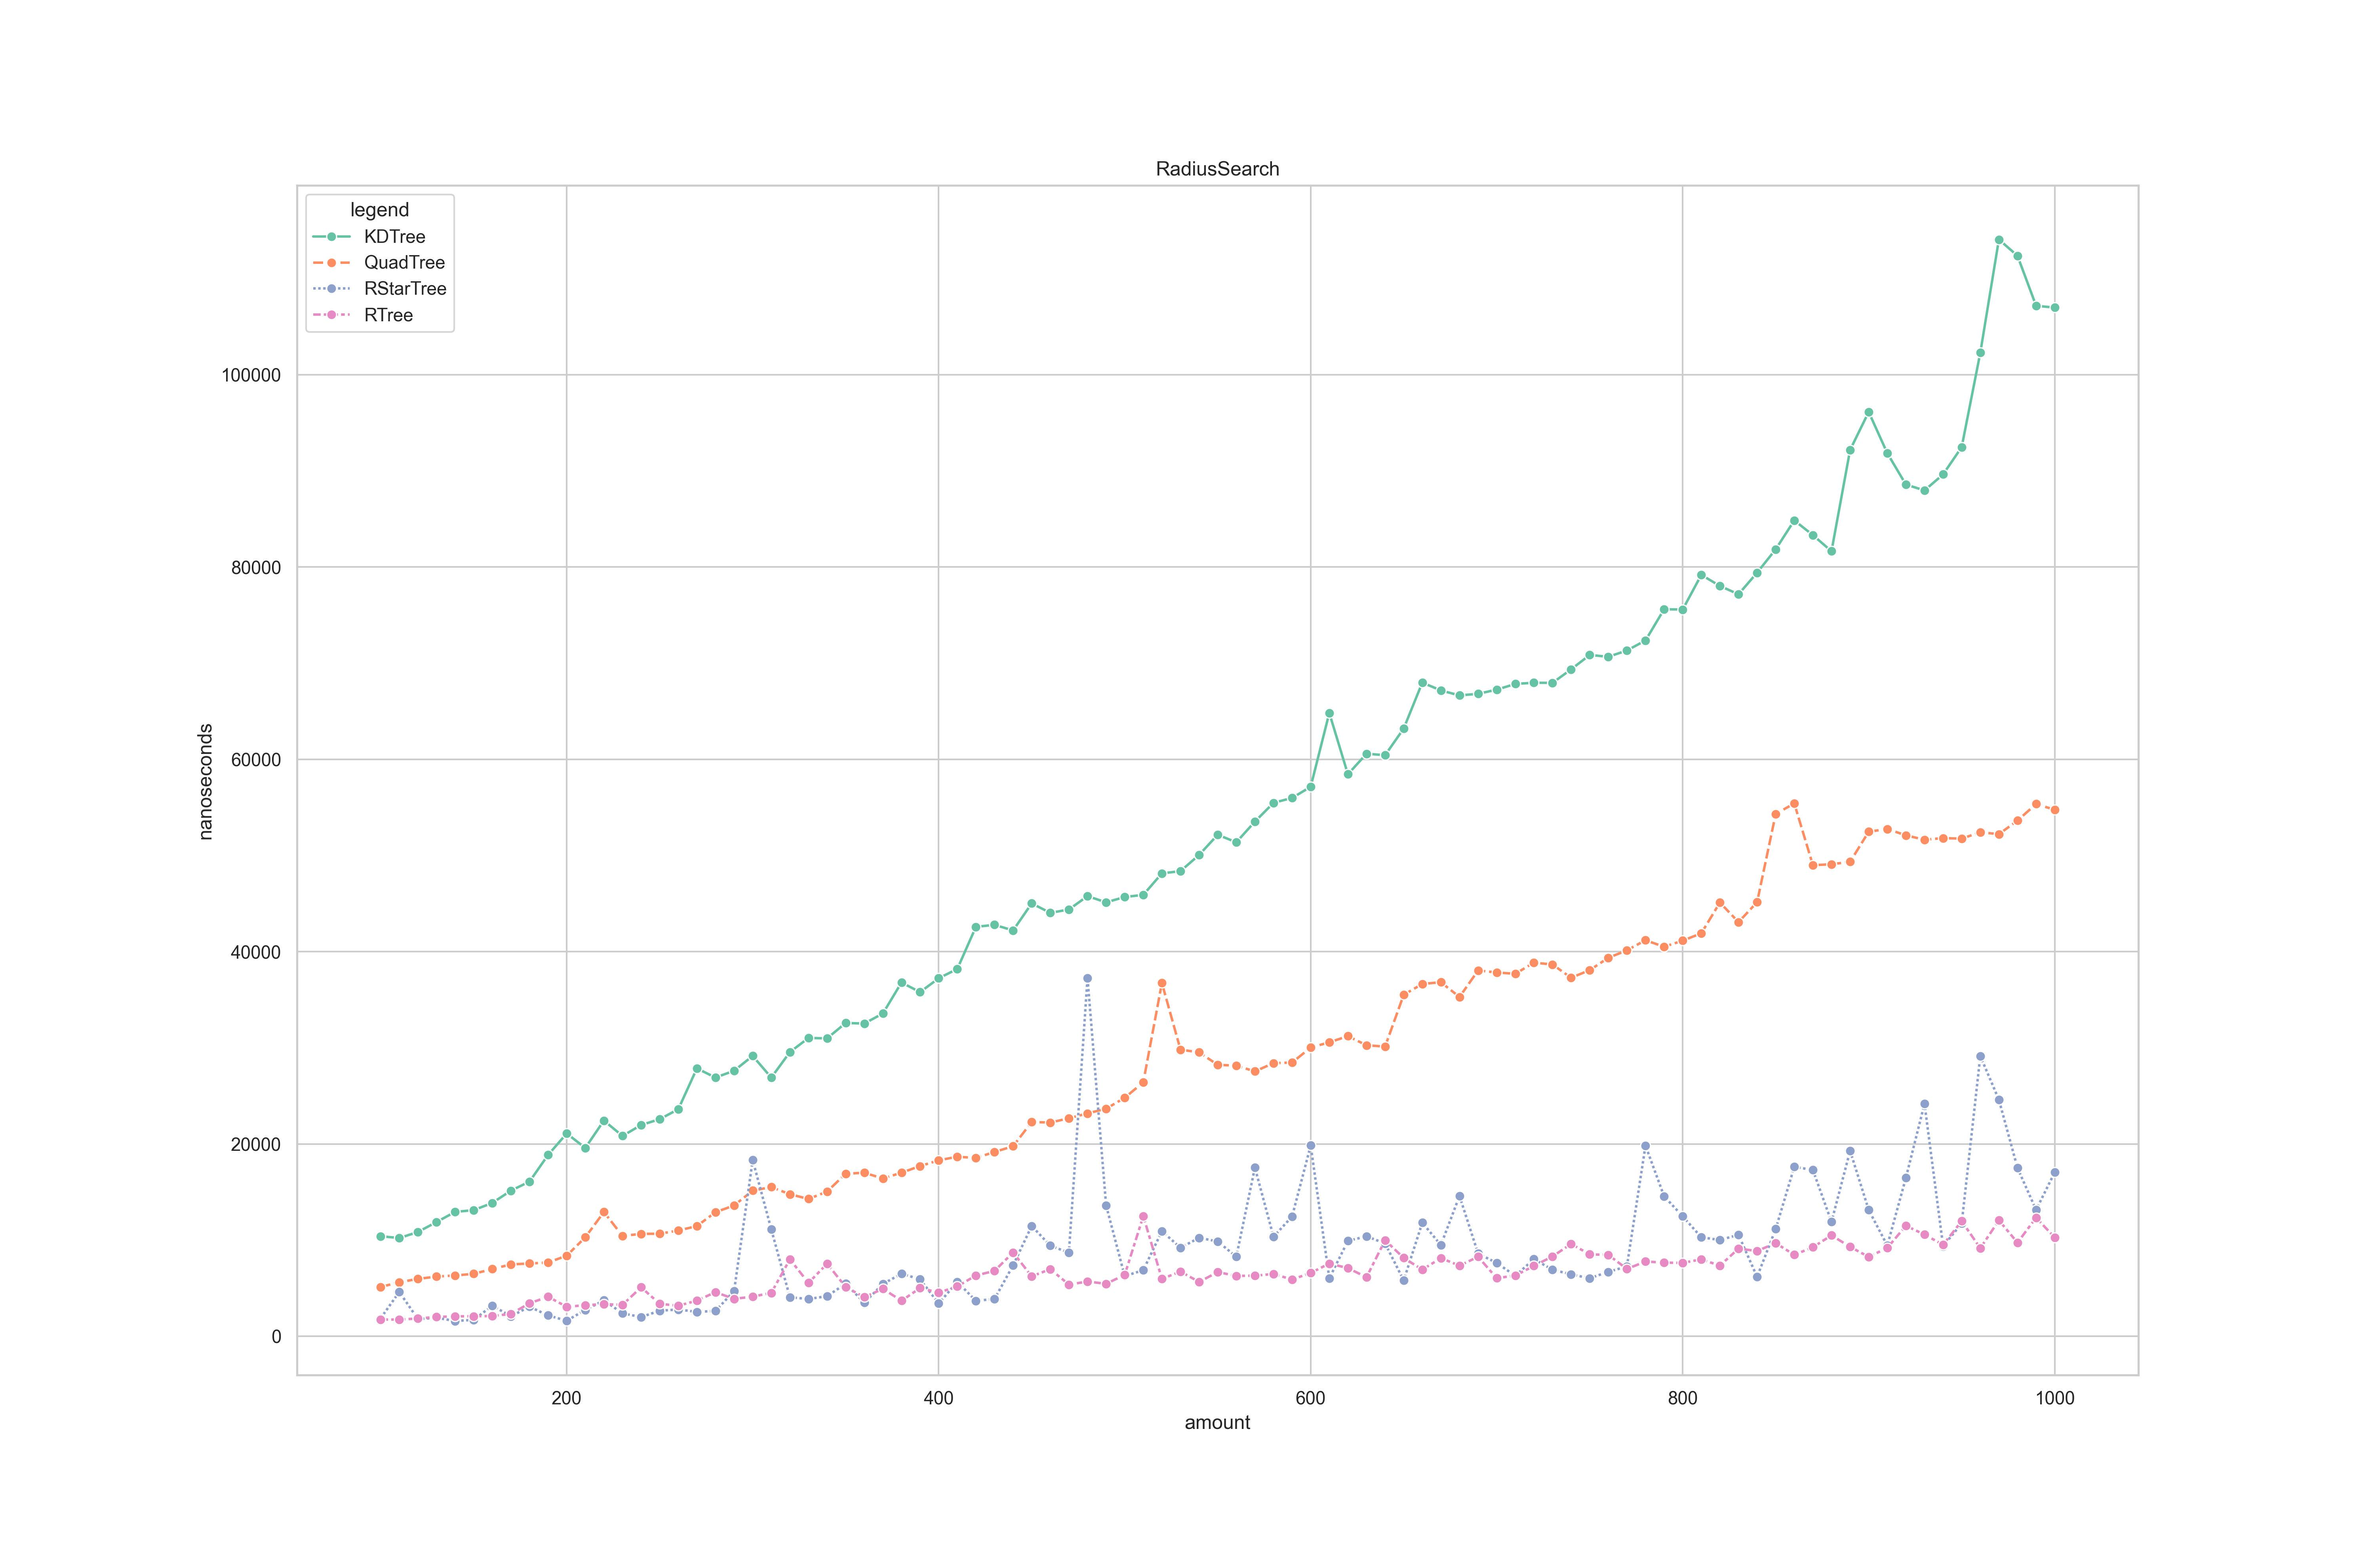
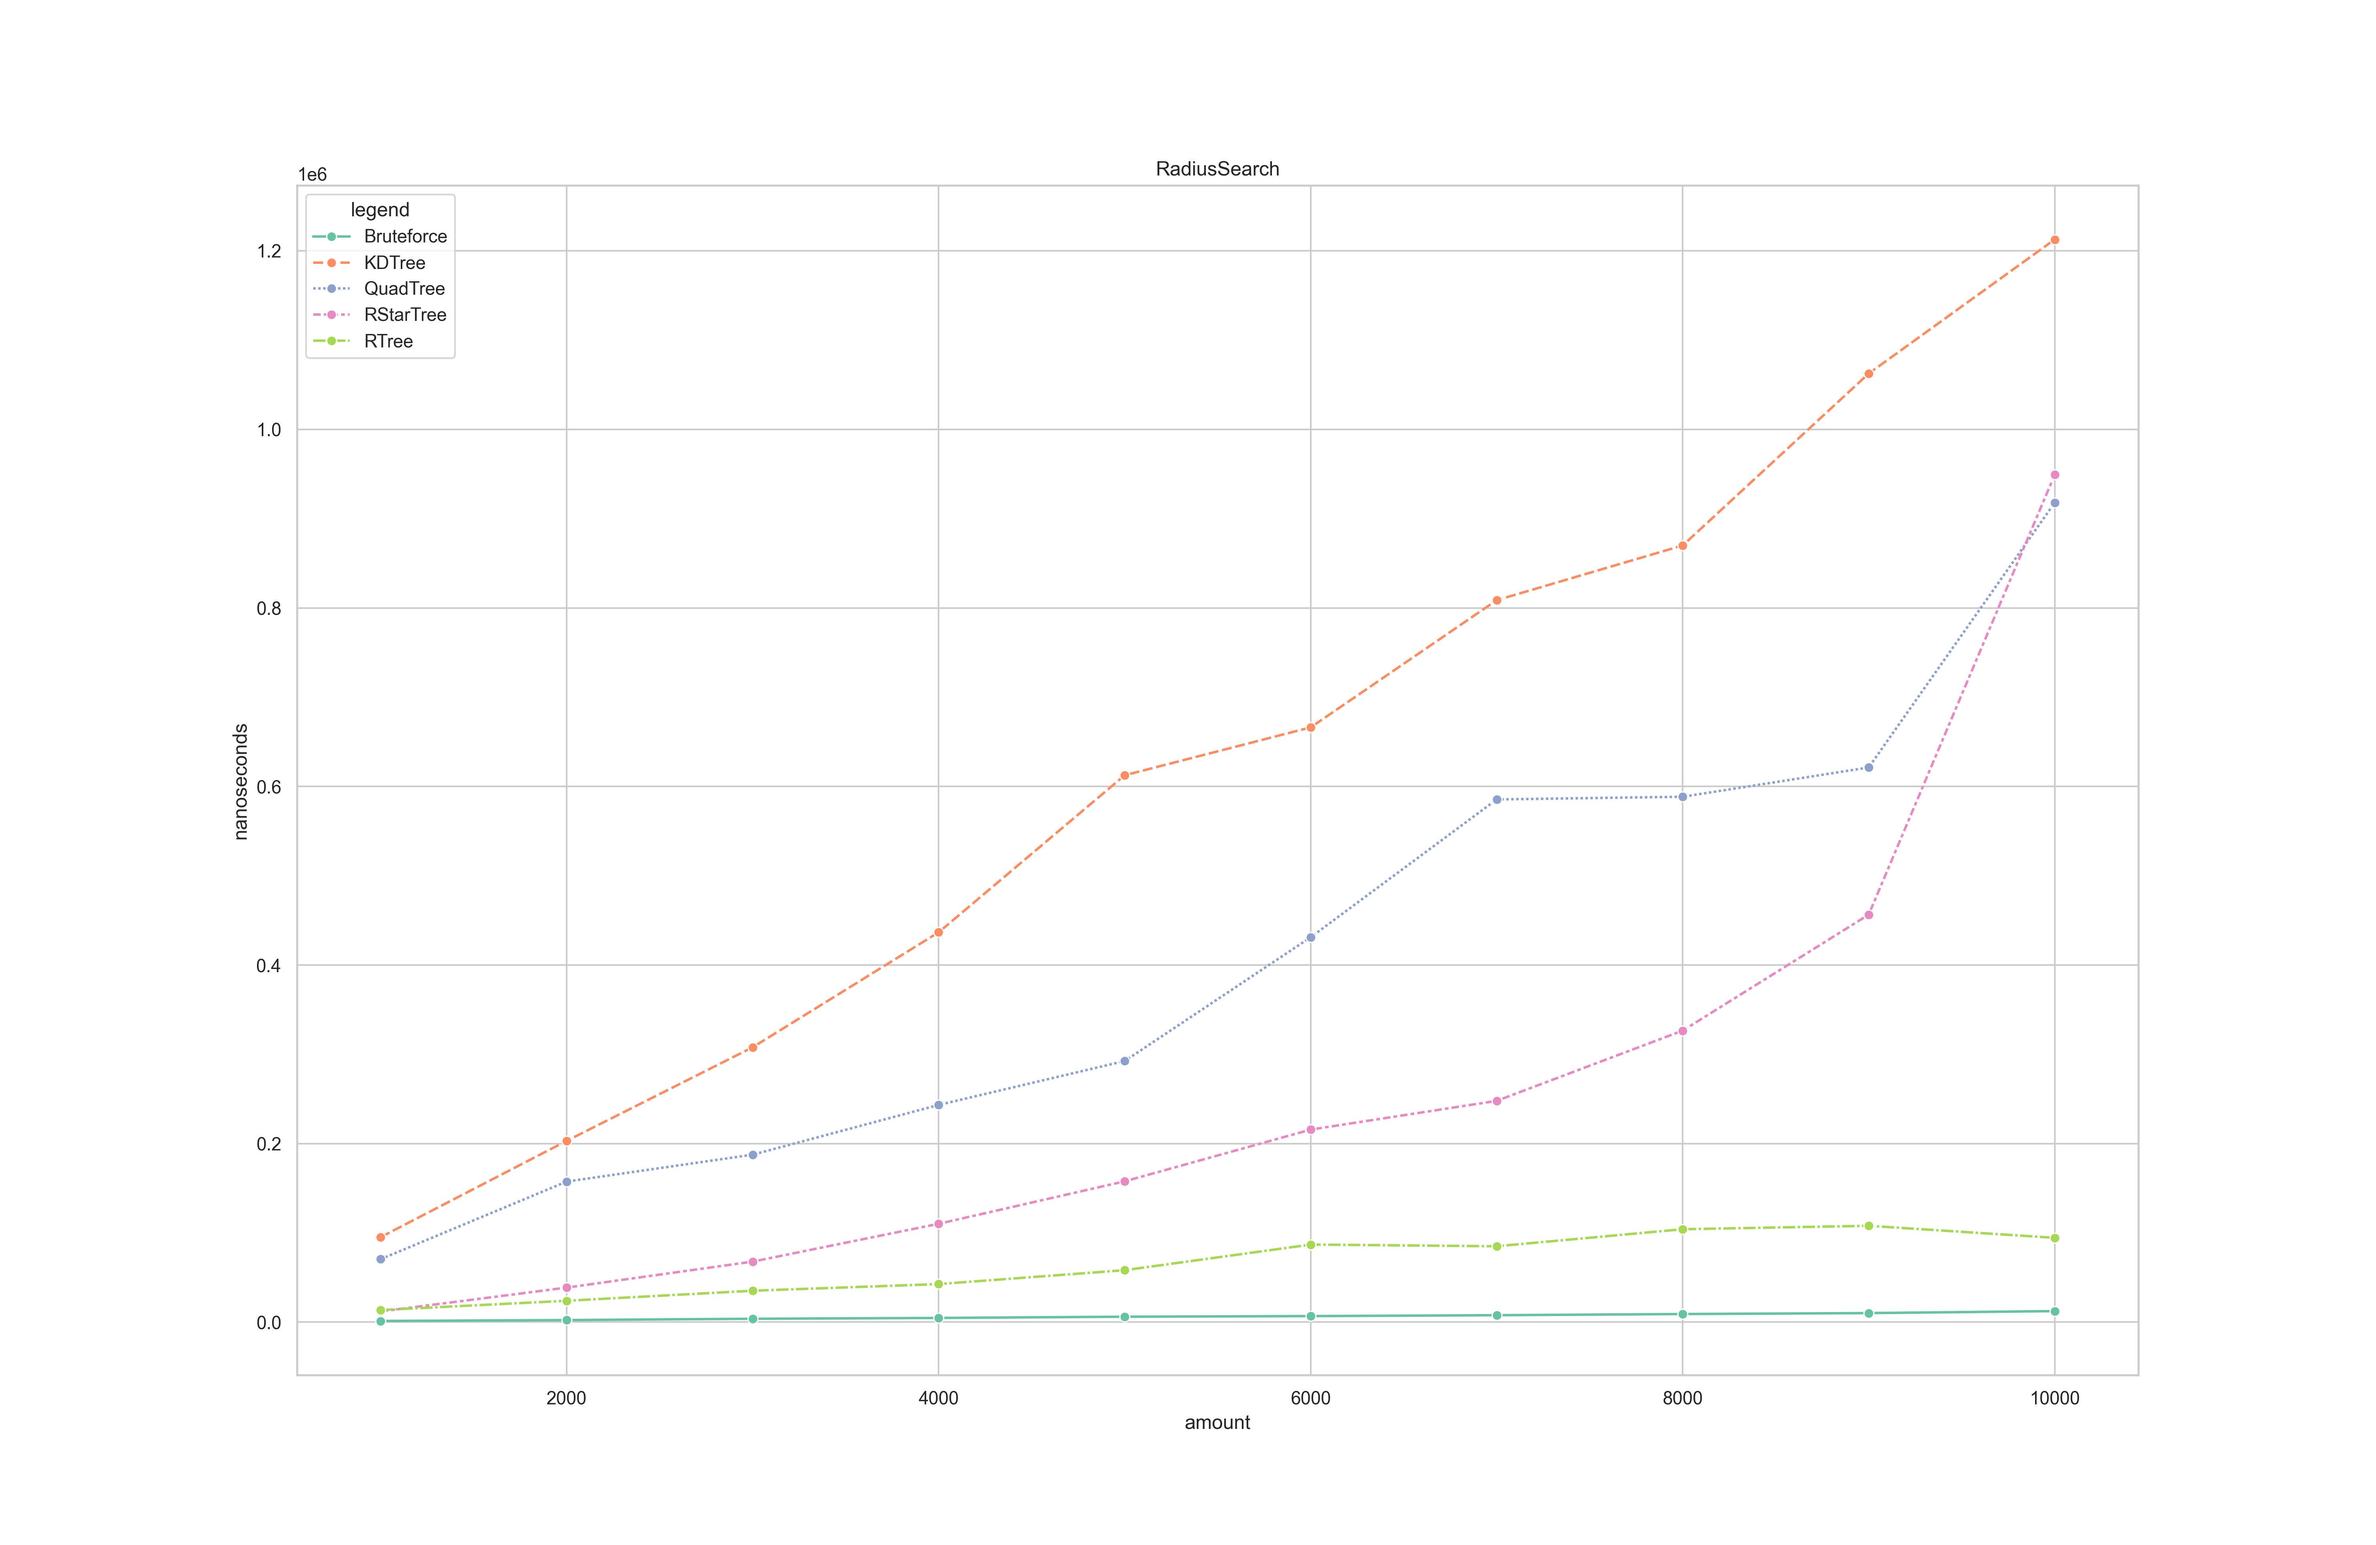
auto: autocommit

diff --git a/core/addapter/bruteforce/addapter.go b/core/addapter/bruteforce/addapter.go
@@ -1,0 +1,77 @@
+package bruteforce
+
+import (
+	"geoindexing_comparison/core/addapter"
+	"geoindexing_comparison/core/geo"
+	"time"
+)
+
+type CollectionBruteforce struct {
+	impl geo.Points
+}
+
+func New() addapter.Collection {
+	r := CollectionBruteforce{}
+	return &r
+}
+
+func (r *CollectionBruteforce) Name() string {
+	return "Bruteforce"
+}
+
+func (r *CollectionBruteforce) FromArray(points geo.Points) {
+	r.impl = points
+}
+
+func (r *CollectionBruteforce) InsertTimed(point geo.Point) time.Duration {
+	t0 := time.Now()
+	r.impl = append(r.impl, point)
+
+	return time.Now().Sub(t0)
+}
+
+func (r *CollectionBruteforce) RangeSearchTimed(
+	point geo.Point,
+	radius float64,
+) (geo.Points, time.Duration) {
+	t0 := time.Now()
+	points := make(geo.Points, 0, 10)
+
+	for _, indexPoint := range r.impl {
+		if indexPoint.Lat < point.Lat+radius &&
+			indexPoint.Lat > point.Lat-radius &&
+			indexPoint.Lon < point.Lon+radius &&
+			indexPoint.Lon > point.Lon-radius {
+			points = append(points, indexPoint)
+		}
+	}
+	dur := time.Now().Sub(t0)
+
+	return points, dur
+}
+
+func (r *CollectionBruteforce) KNNTimed(point geo.Point, n int) (geo.Points, time.Duration) {
+	t0 := time.Now()
+
+	knnMatrix := make([]float64, 0, len(r.impl))
+	for _, indexPoint := range r.impl {
+		knnMatrix = append(knnMatrix, indexPoint.DistanceTo(point))
+
+	}
+
+	result := make(geo.Points, n)
+	// TODO make real knn
+
+	//for idx, indexDistance := range knnMatrix {
+	//
+	//}
+	//
+	//res := r.impl.KNN(&point, n)
+	dur := time.Since(t0)
+
+	return result, dur
+}
+
+func (r *CollectionBruteforce) String() string {
+	return r.impl.String()
+}

diff --git a/core/cases/run.go b/core/cases/run.go
@@ -12,12 +12,11 @@ const repetitions = 30
 func runAmount(runCase RunCase, amount int) Result {
 	dur := make([]time.Duration, repetitions)
 	for i := 0; i < repetitions; i++ {
+		runtime.GC()
 		dur[i] = runCase.Task.Run(runCase.Collection, amount)
-
+		runtime.GC()
 	}
 	result := stats.NewDurs(dur)
-
-	runtime.GC()
 
 	return Result{
 		RunCase: runCase,
@@ -35,6 +34,7 @@ type Result struct {
 func Run(runCases []RunCase) []Result {
 	results := make([]Result, 0, 100)
 	for _, runCase := range runCases {
+		t0 := time.Now()
 		cur := runCase.AmountStart
 		for {
 			if cur > runCase.AmountEnd {
@@ -50,6 +50,7 @@ func Run(runCases []RunCase) []Result {
 			Str("status", "сase.done").
 			Str("collection", runCase.Collection().Name()).
 			Str("task", runCase.Task.Name()).
+			Dur("elapsed", time.Since(t0)).
 			Send()
 	}
 

diff --git a/core/geo/haversine.go b/core/geo/haversine.go
@@ -1,0 +1,33 @@
+package geo
+
+import "math"
+
+const (
+	earthRaidusKm = 6371 // radius of the earth in kilometers.
+)
+
+// degreesToRadians converts from degrees to radians.
+func degreesToRadians(d float64) float64 {
+	return d * math.Pi / 180
+}
+
+func Distance(p, q Point) float64 {
+	lat1 := degreesToRadians(p.Lat)
+	lon1 := degreesToRadians(p.Lon)
+	lat2 := degreesToRadians(q.Lat)
+	lon2 := degreesToRadians(q.Lon)
+
+	diffLat := lat2 - lat1
+	diffLon := lon2 - lon1
+
+	a := math.Pow(math.Sin(diffLat/2), 2) + math.Cos(lat1)*math.Cos(lat2)*
+		math.Pow(math.Sin(diffLon/2), 2)
+
+	c := 2 * math.Atan2(math.Sqrt(a), math.Sqrt(1-a))
+
+	return c * earthRaidusKm
+}
+
+func (r Point) DistanceTo(other Point) (km float64) {
+	return Distance(r, other)
+}

diff --git a/core/addapter/rtree/addapter.go b/core/addapter/rtree/addapter.go
@@ -28,7 +28,7 @@ func (r *CollectionRTree) FromArray(points geo.Points) {
 func (r *CollectionRTree) KNNTimed(point geo.Point, n int) (geo.Points, time.Duration) {
 	t0 := time.Now()
 	spatials := r.impl.NearestNeighbors(n, []float64{point.Lat, point.Lon})
-	dur := time.Now().Sub(t0)
+	dur := time.Since(t0)
 
 	result := make(geo.Points, len(spatials))
 	for idx, spatial := range spatials {
@@ -41,8 +41,8 @@ func (r *CollectionRTree) RangeSearchTimed(
 	point geo.Point,
 	radius float64,
 ) (geo.Points, time.Duration) {
-	t0 := time.Now()
 	rect, _ := rtreego.NewRect([]float64{point.Lat, point.Lon}, []float64{radius, radius})
+	t0 := time.Now()
 	points := r.impl.SearchIntersect(rect)
 	dur := time.Now().Sub(t0)
 

diff --git a/core/addapter/quadtree/addapter.go b/core/addapter/quadtree/addapter.go
@@ -64,7 +64,7 @@ func (r *CollectionQuadTree) RangeSearchTimed(
 			point.Lon+radius/2,
 		),
 	)
-	dur := time.Now().Sub(t0)
+	dur := time.Since(t0)
 
 	return toConcrete(res), dur
 }
@@ -72,7 +72,7 @@ func (r *CollectionQuadTree) RangeSearchTimed(
 func (r *CollectionQuadTree) KNNTimed(point geo.Point, n int) (geo.Points, time.Duration) {
 	t0 := time.Now()
 	res := r.impl.KNN(qtree.NewPoint[uuid.UUID](point.Lat, point.Lon, uuid.Nil), n)
-	dur := time.Now().Sub(t0)
+	dur := time.Since(t0)
 
 	return toConcrete(res), dur
 }

diff --git a/core/addapter/rstartree/addapter.go b/core/addapter/rstartree/addapter.go
@@ -41,10 +41,10 @@ func (r *CollectionRTree) RangeSearchTimed(
 	point geo.Point,
 	radius float64,
 ) (geo.Points, time.Duration) {
-	t0 := time.Now()
 	rect, _ := rtreego.NewRect([]float64{point.Lat, point.Lon}, []float64{radius, radius})
+	t0 := time.Now()
 	points := r.impl.SearchIntersect(rect)
-	dur := time.Now().Sub(t0)
+	dur := time.Since(t0)
 
 	geoPoints := make(geo.Points, len(points))
 	for idx, foundPoint := range points {

diff --git a/core/addapter/addapter_all/all.go b/core/addapter/addapter_all/all.go
@@ -2,6 +2,7 @@ package addapter_all
 
 import (
 	"geoindexing_comparison/core/addapter"
+	"geoindexing_comparison/core/addapter/bruteforce"
 	"geoindexing_comparison/core/addapter/kdtree"
 	"geoindexing_comparison/core/addapter/quadtree"
 	"geoindexing_comparison/core/addapter/rstartree"
@@ -16,5 +17,6 @@ func All() []CollectionInit {
 		rtree.New,
 		rstartree.New,
 		quadtree.New,
+		bruteforce.New,
 	}
 }

diff --git a/core/addapter/bruteforce/addapter_test.go b/core/addapter/bruteforce/addapter_test.go
@@ -1,0 +1,17 @@
+package bruteforce
+
+import (
+	"testing"
+
+	"geoindexing_comparison/core/generator"
+)
+
+var points = generator.DefaultGenerator.Points(&generator.DefaultInput, 1000)
+
+func TestUnit_PointGenerator_GeneratePoint_Ok(t *testing.T) {
+	collection := New()
+	collection.FromArray(points)
+
+	origin := points.GetRandomPoint()
+	collection.KNNTimed(origin, 10)
+}

diff --git a/core/cases/run/main.go b/core/cases/run/main.go
@@ -18,9 +18,9 @@ func AllCases() []cases.RunCase {
 			runCases = append(runCases, cases.RunCase{
 				Collection:  collection,
 				Task:        task,
-				AmountStart: 100,
-				AmountEnd:   1000,
-				AmountStep:  10,
+				AmountStart: 1_000,
+				AmountEnd:   10_000,
+				AmountStep:  3_000,
 			})
 		}
 	}
